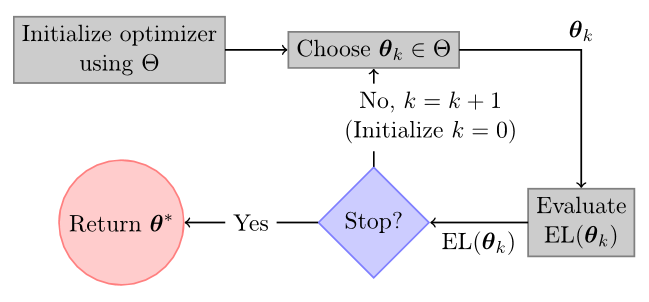
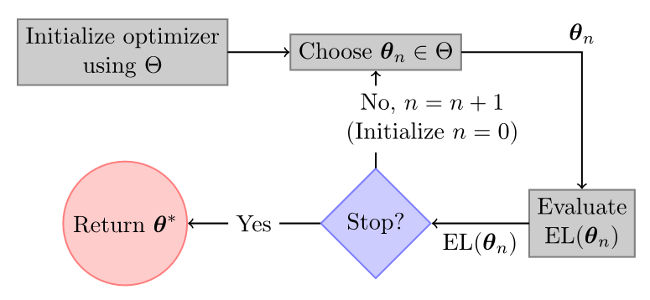
Updated presentation with Karin's suggestions

diff --git a/scripts.js b/scripts.js
@@ -17,27 +17,31 @@
 function algorithmPerformanceMoveToPosition(id) {
   var bullets = $('li', '.algorithm-performance');
   var left = [25, 350, 675];
-  imageStyling = { 'position': 'absolute', 'width': '350px', 'top': '125px' };
+  imageStyling = { 'position': 'absolute', 'width': '350px', 'top': '175px' };
   imageStyling.left = left[id] + 'px';
   $('img', bullets[id]).css(imageStyling);
 }
 
 function algorithmPerformanceSetup() {
   $('h1', '.algorithm-performance').css('marginTop', '15px');
+  $('p', '.algorithm-performance').css({ 'margin-top' : '-1.75ex'});
+
   algorithmPerformanceMoveToPosition(0);
   algorithmPerformanceMoveToPosition(1);
   algorithmPerformanceMoveToPosition(2);
 
   var bullets = $('li', '.algorithm-performance');
-  $(bullets[0]).css('padding', '125px');
+  bullets.css({ 'font-size' : '1.5ex', 'padding' : '1.5ex 0' });
+  $(bullets[0]).css('padding', '165px');
   $(bullets[1]).css('padding', 0);
   $(bullets[2]).css('padding', 0);
 }
 
 function conclusionsMarkup() {
   var items = $('li', '.conclusions');
+  items.css('font-size', '1.75ex');
   $(items[0]).css('color', 'green');
-  $(items[1]).css('color', 'orange');
+  $(items[1]).css('color', 'green');
   $(items[2]).css('color', 'orange');
 }
 
@@ -67,12 +71,12 @@ function conventionalOptimizationStrategyReset() {
   var slide = $('.conventional-optimization-strategy');
   $('div', slide).remove();
   var mask_properties = [
-    { 'width' : '214px', 'height' : '70px', 'position' : 'absolute', 'top' : '283px', 'left' : '200px', 'background-color' : '#fff' },
-    { 'width' : '235px', 'height' : '54px', 'position' : 'absolute', 'top' : '284px', 'left' : '414px', 'background-color' : '#fff' },
-    { 'width' : '175px', 'height' : '242px', 'position' : 'absolute', 'top' : '284px', 'left' : '648px', 'background-color' : '#fff' },
+    { 'width' : '216px', 'height' : '72px', 'position' : 'absolute', 'top' : '283px', 'left' : '200px', 'background-color' : '#fff' },
+    { 'width' : '235px', 'height' : '56px', 'position' : 'absolute', 'top' : '284px', 'left' : '416px', 'background-color' : '#fff' },
+    { 'width' : '175px', 'height' : '242px', 'position' : 'absolute', 'top' : '284px', 'left' : '649px', 'background-color' : '#fff' },
     { 'width' : '209px', 'height' : '114px', 'position' : 'absolute', 'top' : '434px', 'left' : '506px', 'background-color' : '#fff' },
-    { 'width' : '209px', 'height' : '97px', 'position' : 'absolute', 'top' : '337px', 'left' : '506px', 'background-color' : '#fff' },
-    { 'width' : '260px', 'height' : '127px', 'position' : 'absolute', 'top' : '427px', 'left' : '246px', 'background-color' : '#fff' },
+    { 'width' : '209px', 'height' : '97px', 'position' : 'absolute', 'top' : '339px', 'left' : '506px', 'background-color' : '#fff' },
+    { 'width' : '261px', 'height' : '127px', 'position' : 'absolute', 'top' : '427px', 'left' : '246px', 'background-color' : '#fff' },
   ];
   for(i = 0; i < mask_properties.length; i++) {
 	slide.append($('<div>').css(mask_properties[i]));
@@ -109,7 +113,7 @@ function optimizationStrategyReset() {
     { 'width' : '182px', 'height' : '299px', 'position' : 'absolute', 'top' : '163px', 'left' : '624px', 'background-color' : '#fff' },
     { 'width' : '355px', 'height' : '190px', 'position' : 'absolute', 'top' : '461px', 'left' : '451px', 'background-color' : '#fff' },
     { 'width' : '165px', 'height' : '184px', 'position' : 'absolute', 'top' : '362px', 'left' : '451px', 'background-color' : '#fff' },
-    { 'width' : '205px', 'height' : '111px', 'position' : 'absolute', 'top' : '251px', 'left' : '477px', 'background-color' : '#fff' },
+    { 'width' : '205px', 'height' : '110px', 'position' : 'absolute', 'top' : '252px', 'left' : '477px', 'background-color' : '#fff' },
     { 'width' : '256px', 'height' : '93px', 'position' : 'absolute', 'top' : '372px', 'left' : '221px', 'background-color' : '#fff' },
     { 'width' : '100px', 'height' : '152px', 'position' : 'absolute', 'top' : '464px', 'left' : '271px', 'background-color' : '#fff' }
   ];
@@ -151,7 +155,7 @@ function regoDemonstrationReset(event) {
 
   imagePositioning = { 'position' : 'absolute', 'top' : '175px', 'left': '210px' };
   $('img', '.rego-demonstration').css(imagePositioning);
-  $('li', '.rego-demonstration').slice(0, 2).show().css('padding', '25px');
+  $('li', '.rego-demonstration').slice(0, 3).show().css('padding', '25px');
   $('div', event.target).hide();
 }
 
@@ -162,8 +166,8 @@ function regoDemonstrationSetup() {
 }
 
 function regoDemonstrationStep() {
-  if(regoDemonstrationStep > 1) {
-    $('li', '.rego-demonstration').slice(0, 2).hide().css('padding', 0);
+  if(regoDemonstrationStep > 2) {
+    $('li', '.rego-demonstration').slice(0, 3).hide().css('padding', 0);
     $('div', '.rego-demonstration').show();
   } else {
 	regoDemonstrationStep++;

diff --git a/styles.css b/styles.css
@@ -1,0 +1,4 @@
+.example {
+  font-size: 1.5ex;
+  font-style: italic;
+}

diff --git a/conventional-methods/optimization-strategy.tex b/conventional-methods/optimization-strategy.tex
@@ -18,16 +18,16 @@
   align=center]
 
   \node[question] (stop) {Stop?};
-  \node[action] (ask) [above=of stop, yshift=3.5ex] {Choose $\vecttheta_{k}\in\Theta$};
-  \node[action] (evaluate loss function) [right=of stop, xshift=1.5em] {Evaluate\\$\text{EL}(\vecttheta_{k})$};
+  \node[action] (ask) [above=of stop, yshift=3.5ex] {Choose $\vecttheta_{n}\in\Theta$};
+  \node[action] (evaluate loss function) [right=of stop, xshift=1.5em] {Evaluate\\$\text{EL}(\vecttheta_{n})$};
 
   \node[endpoint] (best) [left=of stop, xshift=-3em] {Return $\thetaOpt$};
   \node[action] (start) [above=of best, left=of ask] {Initialize optimizer\\using $\Theta$};
 
   \draw[->,thick] (start) -- (ask);
-  \draw[->,thick] (ask) -| node[above, midway] {$\vecttheta_{k}$} (evaluate loss function);
-  \draw[->,thick] (evaluate loss function) -- node[below, midway] {$\text{EL}(\vecttheta_{k})$} (stop);
-  \draw[->,thick] (stop) -- node[xshift=2.4em, fill=white] {No, $k = k+1$\\(Initialize $k=0$)} (ask);
+  \draw[->,thick] (ask) -| node[above, midway] {$\vecttheta_{n}$} (evaluate loss function);
+  \draw[->,thick] (evaluate loss function) -- node[below, midway] {$\text{EL}(\vecttheta_{n})$} (stop);
+  \draw[->,thick] (stop) -- node[xshift=2.4em, fill=white] {No, $n = n+1$\\(Initialize $n=0$)} (ask);
   \draw[->,thick] (stop) -- node[midway, fill=white] {Yes} (best);
 \end{tikzpicture}
 \end{document}

diff --git a/computer-aided-algorithm-design/04-problem-statement.md b/computer-aided-algorithm-design/04-problem-statement.md
@@ -4,17 +4,18 @@
   $('.algorithm-performance').bind('showoff:show', algorithmPerformanceSetup);
 </script>
 
-# The Problem
+# Optimization Problem
+
+\\(\text{EL}(\theta) = \sum\_{k=1}^{K} p(x\_k) L(y\_{k},r\_{k})\\)
+
 * ![Expected Loss Function Response](expected-loss-function-response.png)
 
 * ![Probability Distribution](snr-probabilities.png)
 
 * ![Loss Function Response](loss-function-response.png)
 
-* Evaluation of \\(L\\) is expensive
+* Evaluating \\(L\\) is expensive
 
-* Evaluation of \\(\text{EL}\\) is _really_ expensive
+* Evaluating \\(\text{EL}\\) is \\(K\\) times as expensive
 
-* _Find the minimum of \\(\text{EL}\\) in as few evaluations of \\(L\\) as possible_
-
-.notes Exhaustive calculation of surface L is not feasible. Evaluation of L is expensive, since we need the final state \(S_{T}\). Gaussian probability distribution fits interesting input SNRs for a given SNR loss. The minimum shown in EL plot is the one we want to find. Large number of x required to accurately model the world.
+* _Find an optimization algorithm that solves the optimization problem in as few evaluations of \\(L\\) as possible_

diff --git a/computer-aided-algorithm-design/02-caad.md b/computer-aided-algorithm-design/02-caad.md
@@ -2,12 +2,10 @@
 
 # Computer-Aided Algorithm Design
 
-* Problems have _non-analytical_ solutions
+* Problems to be solved using algorithms have _non-analytical_ solutions
 
 * _Knowledge_ is expressed in _equations_
 
 * _Uncertainty_ is captured in _parameters_
 
-* Finding optimal parameters for a given problem can be tedious work
-
-.notes Trade-off between number of equations and degrees of freedom to search through solution space given by number of parameters. Larger parameter spaces are harder to search. But knowledge equations restrict solution space (including possibly invalid assumptions). Typically small number of parameters, since searching the parameter space can be time-consuming.
+* Solution for a specific problem is given by fixing parameters to specific values

diff --git a/computer-aided-algorithm-design/03-audio-algorithm-design.md b/computer-aided-algorithm-design/03-audio-algorithm-design.md
@@ -4,9 +4,7 @@
 
 * _Algorithm proposal_
 * \\(y\_{k}=H(\theta,x\_{k})\\) with \\(\theta\in\Theta\\)
-* Model the world with relevant _problem instances_
+* Relevant _problem instances_
 * \\(\mathcal{X}=\\{x\_{1},\\ldots,x\_{K}\\}\\) with \\(p(\mathcal{X})\\)
 * _Algorithm performance_ function
 * \\(\text{EL}(\theta) = \sum\_{k=1}^{K} p(x\_k) L(y\_{k},r\_{k})\\)
-
-.notes H is the noise reduction algorithm. Intelligibility is related to SNR of x. Higher SNR means better intelligibility. To make speech intelligible a certain boost in SNR is required, which depends on SNR hearing loss. Loss function is log-spectral density. The optimal parameters minimize EL. We want to find optimal parameters, so can be seen as an optimization problem.

diff --git a/conclusion/01-conclusions.md b/conclusion/01-conclusions.md
@@ -6,12 +6,14 @@
 
 # Conclusions
 
-* Significant performance gains
+* Computer-Aided Algorithm Design is feasible
+
+* For expensive loss functions significant performance gains can be achieved
 
 * Not applicable out of the box
 
 * Numerical issues with Gaussian Processes
 
-* Investigate how well the algorithm scales
+* Investigate how well the algorithm scales to higher dimensional problems
 
 .notes Smoothness constraints have to be satisfied (i.e. it must be possible to model EL using a Gaussian Process) and input distribution of X has to be Gaussian. Numerical issues arise from the use of covariance matrices and inverting them.

diff --git a/gaussian-process-based-methods/01-introduction.md b/gaussian-process-based-methods/01-introduction.md
@@ -1,13 +1,15 @@
-!SLIDE subsection bullets incremental
+!SLIDE subsection rego-introduction bullets incremental
+
+<script type="text/javascript">
+  $('li', '.rego-introduction').slice(3).css('font-style', 'italic');
+</script>
 
 # Gaussian Process Based Methods
+
+* Robust Efficient Global Optimization [Janusevskis _et al._, 2010]
 
 * Iteratively build a model of \\(\text{EL}\\)
 
 * Find optimal parameters using this model
 
-* Robust Efficient Global Optimization [Janusevskis _et al._, 2010]
-
 * Takes 30 evaluations of \\(L\\) for our example
-
-.notes We don't want to evaluate EL explicitly, but use a model instead

diff --git a/gaussian-process-based-methods/02-bayesian-optimization.md b/gaussian-process-based-methods/02-bayesian-optimization.md
@@ -11,6 +11,8 @@
 
 * Optimal experimental design
 
+* _Example minimization problem_
+
 * ![Step 1](optimization-step-1.png)
 * ![Step 2](optimization-step-2.png)
 * ![Step 3](optimization-step-3.png)
@@ -19,5 +21,3 @@
 * ![Step 6](optimization-step-6.png)
 * ![Step 7](optimization-step-7.png)
 * ![Step 8](optimization-step-8.png)
-
-.notes Model of EL is based on Gaussian Processes. Gaussian probability distributions at each point in the solution space (so a mean and a standard deviation). The probability distributions model the uncertainty of our model of EL. The example illustrates the concept, it is not an actual EL.

diff --git a/computer-aided-algorithm-design/01-design-example.md b/computer-aided-algorithm-design/01-design-example.md
@@ -1,4 +1,8 @@
-!SLIDE subsection bullets incremental
+!SLIDE subsection algorithm-design bullets incremental
+
+<script type="text/javascript">
+  $('li', '.algorithm-design').slice(1, 4).removeClass('example').addClass('example');
+</script>
 
 # Algorithm Design
 
@@ -9,5 +13,3 @@
 * Removes noise power from a noisy signal
 
 * Lower bound on suppression \\(\left(G_\text{min}\right)\\)
-
-.notes Algorithm works in the frequency domain and is used for instance in Hearing Instruments

diff --git a/conventional-methods/01-introduction.md b/conventional-methods/01-introduction.md
@@ -4,10 +4,8 @@
 
 * DIRECT [Jones _et al._, 1993]
 
-* Competitive optimization method
+* _Competitive optimization method_
 
-* Requires a large number of signals
+* Require a large number of signals
 
-* Takes a long time to find optimal parameters
-
-.notes Exponential growth is an issue that can be handled. Optimization is time-consuming, because evaluation of EL is time-consuming
+* Take a long time to find optimal parameters

diff --git a/gaussian-process-based-methods/03-structure-of-expected-loss.md b/gaussian-process-based-methods/03-structure-of-expected-loss.md
@@ -2,8 +2,8 @@
 
 # Structure of EL
 
-* Use that \\(\mathcal{X}\\) is Gaussian distributed
+* Assuming \\(\mathcal{X}\\) is Gaussian distributed
 
-* Explicit relation between \\(L\\) and \\(EL\\)
+* Explicit relation between \\(L\\) and \\(\text{EL}\\)
 
-* Allows updates of the model of \\(EL\\) after _each_ evaluation of \\(L\\)
+* Knowledge about \\(\text{EL}\\) is updated after _each_ evaluation of \\(L\\)
